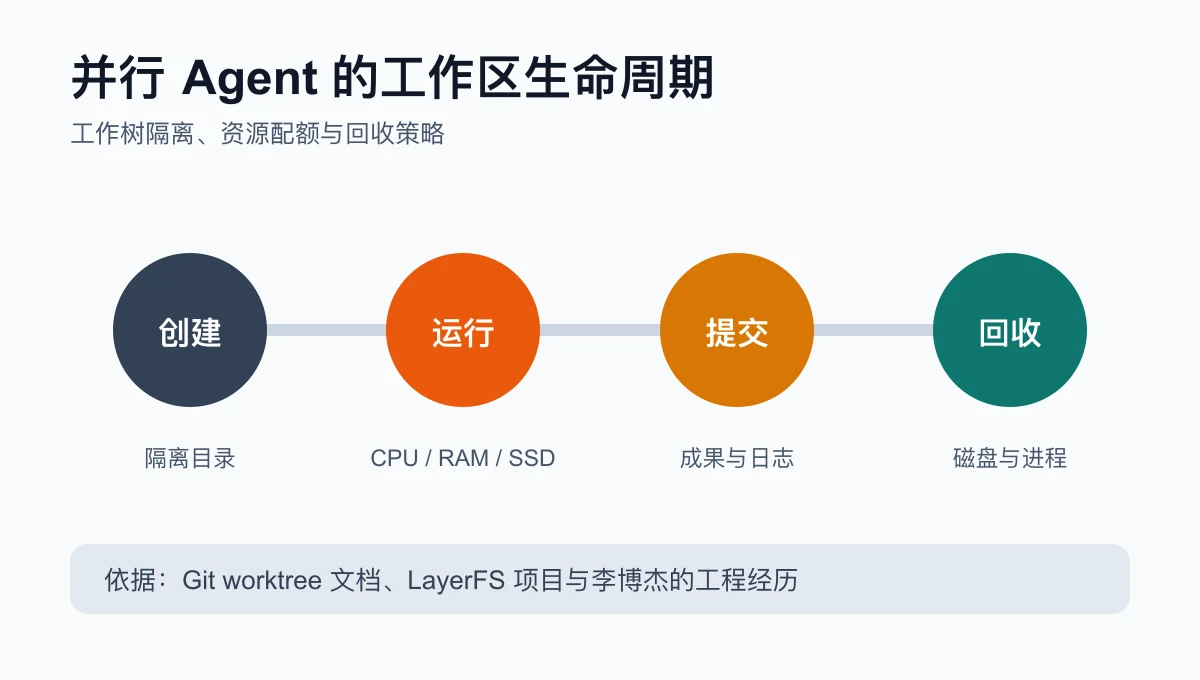
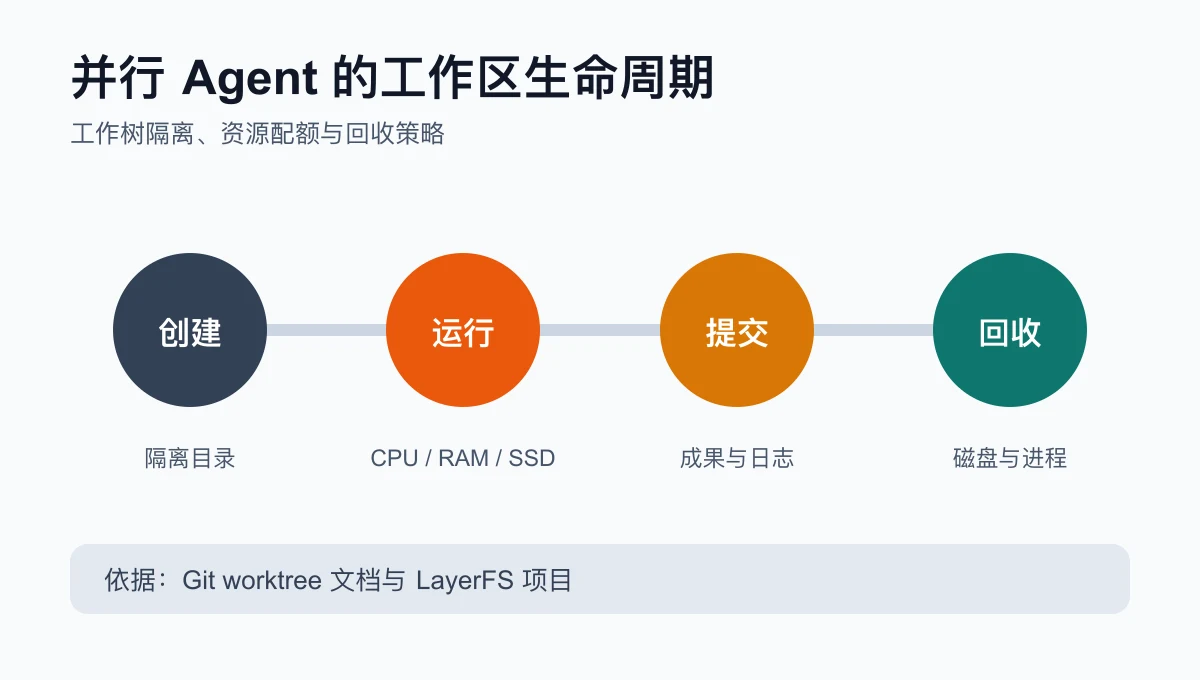
Revise agent infrastructure article without source author references

Changed region(s): [[0.3083, 0.8338, 0.6783, 0.8647]]

diff --git a/src/content/articles/agent-os-git-ssd-network-bottlenecks.md b/src/content/articles/agent-os-git-ssd-network-bottlenecks.md
@@ -1,61 +1,65 @@
 ---
 title: "Agent 的新瓶颈：Git、SSD、内存和网络"
-description: "两条讨论聚焦 Agent 基础设施。话题包括工具调用、工作区、内存与截图传输。本文核对 Git 文档、LayerFS 项目和 Sema 论文，区分工程经历与速度预测。"
+description: "Agent 任务包含模型推理、Git 操作、工作区创建、进程运行和网络传输。模型提速改变各环节的耗时比例；并发任务增加 SSD 与内存压力。本文拆解延迟账本、工作区成本、资源配额和截图上行瓶颈。"
 slug: "agent-os-git-ssd-network-bottlenecks"
-publishedAtCST: "2026-10-07T06:48:00+08:00"
+publishedAtCST: "2026-10-07T07:54:00+08:00"
 language: zh
 author: JimLiu
 categories: [devtools, research]
 cover: "/article-covers/agent-os-git-ssd-network-bottlenecks.webp"
-wechatMediaId: "qwac_8j4kaaga6WV5YUa-Z741ADdcbl_D3lQe5htEJcyiBLAUvdfpHc_fFLNynrJ"
+wechatMediaId: "qwac_8j4kaaga6WV5YUa-VVtY6rTQXl0zzrNRVdNrZxepUrnV9S96rlphyhSG0Rw"
 draft: false
 ---
 
-模型提速，Agent 提速吗？[徐一帆的一条讨论](https://x.com/yifanxu_ephai/status/2107104655490912678)把问题转向机器本身：CPU、内存、SSD、网络，以及一个不起眼的 `git add`。[李博杰的回复](https://x.com/bojie_li/status/2107469512476098813)补上生产环境的细节：工作区占满硬盘，并行任务压住内存，截图上传吃掉等待时间。
+模型吞吐量上升，Agent 任务耗时的结构发生变化。一次代码任务包含推理、工具调用、文件读写、测试和结果提交。一次 Computer Use 任务包含截图、上行传输、模型判断与动作执行。任务的完成时间属于整条执行链。
 
-这两条帖子提出一项工程问题：Agent 是一条执行链。模型、工具、文件系统和网络决定任务耗时。这组示例固定其他环节的耗时，推理时间缩短抬高了工具耗时占比。GPU 的资源需求属于另一项问题。
+工程预算需要两个账本：单任务的端到端延迟，以及并发任务的资源峰值。前者回答“用户等多久”，后者回答“机器能承载多少任务”。Git、SSD、内存和网络对应不同成本。
 
-## 一个 `git add`，暴露延迟账本
+## Git：模型提速改变延迟占比
 
-徐一帆给出一组例子：一次模型推理耗时 10 秒，`git add` 耗时 3 秒。单轮合计 13 秒，Git 操作占约 23%。他的设想把模型推理压到 0.5 秒，Git 操作保持 3 秒。单轮合计变成 3.5 秒，Git 操作占约 86%。
+单轮耗时的简化账本是：**推理时间 + 工具时间 + 环境等待时间**。工具时间包含 Git、测试、依赖安装等操作。模型速度属于其中一项变量。
 
-![模型推理速度假设与 Git 操作的单轮耗时占比；数字取自徐一帆的示例](/article-images/agent-os-git-ssd-network-bottlenecks/latency-budget.webp)
+一个算术示例：推理耗时 10 秒，`git add` 耗时 3 秒。两项合计 13 秒，Git 占 23%。另一组假设保留 3 秒 Git 耗时，推理耗时改为 0.5 秒。两项合计 3.5 秒，Git 占 86%。这组数字是比例演示。仓库、硬件和缓存条件缺席。基准测试结论缺少依据。
 
-这个计算属于示例。通用 benchmark 需要统一的仓库和硬件条件。0.5 秒推理属于速度假设；`git add` 的耗时取决于仓库规模、文件数量、磁盘状态和索引配置。**单轮耗时 = 推理时间 + 工具执行时间 + 环境等待时间。** 模型提速改变其中一项。
+![推理时间与 Git 时间的假设计算：10 秒加 3 秒；0.5 秒加 3 秒](/article-images/agent-os-git-ssd-network-bottlenecks/latency-budget.webp)
 
-李博杰提供另一组工程经历。他称团队的核心 Agent 系统采用 Go。团队的 Python 实时语音方案面临单核并发与实时性问题。该案例描述特定架构；其他 Python 语音系统的并发能力需要独立测试。他称多个子 Agent 的任务造成内存压力，服务器出现 SSH 连接失败。帖子给出工程经历；可复查的压测数据缺席。
+[`git add` 的官方文档](https://git-scm.com/docs/git-add)说明，该命令把指定文件的内容放入索引。文件规模、文件数、存储状态与索引配置影响一次调用的开销。性能分析需要拆出文件枚举、内容读取和索引写入等阶段；一次命令的总耗时提供整体结果，阶段归因需要额外测量。
 
-## Worktree 把“并行”变成硬盘问题
+Agent 的多轮任务放大这个问题。每轮动作产生工具调用与校验；任何一段等待进入总账。优化目标因任务而异：代码编辑关注仓库和测试，浏览器操作关注页面加载和截图，远程环境关注队列与容器启动。
 
-多 Agent 开发要求隔离工作区。[Git 官方文档](https://git-scm.com/docs/git-worktree)说明，linked worktree 允许同一仓库拥有多个工作树。它们共享仓库管理数据；每个工作树保留独立目录。项目源码、构建产物和依赖缓存产生磁盘成本。
+## SSD：隔离工作区有物理成本
 
-李博杰称，开发机的单个 worktree 占用数 GB，子 Agent 遗留的工作区填满 3 TB SSD。这组数字属于他的项目；Git worktree 的开销取决于工作目录内容。工作区生命周期带来一个问题：谁负责判断保留期限、清理对象和可恢复范围？
+并发代码任务需要隔离目录。[Git worktree 文档](https://git-scm.com/docs/git-worktree)说明，多个工作树共享仓库管理数据。每棵工作树拥有工作目录与独立索引。共享版本对象减轻仓库复制成本；工作文件、依赖目录、构建产物与日志构成磁盘占用。依赖与缓存的共享程度取决于项目配置。
 
-[LayerFS 项目](https://github.com/Ephemeral-AI-Lab/layerfs)提供一种实验方向：共享基础内容，使用内容寻址与写时复制记录增量，给每个 Agent 分配隔离工作区。项目仓库把 0.1.6 标为 Developer Preview。其存储缺少断电持久性保证，仓库要求重要数据保留独立副本。项目呈现一种解决思路；企业级落地需要更多验证。
+工作区的成本有三部分：基础文件、任务写入增量和遗留数据。任务结束后的目录、容器层、测试产物和日志形成长尾。创建速度、单任务磁盘增量、磁盘峰值、回收时间与失败回收率构成工作区指标。Git 的 `worktree prune` 处理失效管理信息；工作文件的删除与保留属于另一项操作，涉及未提交成果。
 
-![并行 Agent 的资源生命周期：创建、运行、提交、回收；工作区管理包含文件、进程与配额](/article-images/agent-os-git-ssd-network-bottlenecks/workspace-lifecycle.webp)
+[LayerFS 仓库](https://github.com/Ephemeral-AI-Lab/layerfs)展示一条研究路线：内容寻址、分块和写时复制复用基础内容，任务分支保留增量。项目的 0.1.6 版本属于 Developer Preview，仓库声明缺少断电持久性保证。它说明增量存储的设计方向，生产数据需要可靠副本。
 
-## 截图传输占据另一段等待时间
+![Agent 工作区的生命周期：创建、运行、提交和回收](/article-images/agent-os-git-ssd-network-bottlenecks/workspace-lifecycle.webp)
 
-Computer Use 的循环包含截图采集、上传、模型判断和动作执行。李博杰称，部分客户的截图上传耗时超过模型推理耗时。这项描述来自他的客户经历。[他参与的 Sema 论文](https://arxiv.org/abs/2604.20940)提供一组实验数据：受限上行链路的视觉流程，截图上传占端到端动作延迟的比例超过 60%。
+## 内存：并发数决定资源峰值
 
-Sema 的视觉表征包含可访问性树或 OCR 文本，以及压缩视觉 Token。论文的模拟 WAN 实验报告截图上行带宽缩减 130 至 210 倍，任务准确率与原始传输的差距小于等于 0.7 个百分点。这是作者实验条件下的结果；带宽压缩倍数与客户网络的延迟改善倍数属于不同指标。
+一个 Agent 任务占用模型客户端、工具进程、语言服务、测试进程和浏览器内存。任务副本数量增加，进程常驻内存与瞬时峰值叠加。八个任务、每个任务 1.5 GB 工作集，单项合计 12 GB；共享服务、文件缓存和峰值突发构成其他需求。这是容量计算示例，实际额度需要进程测量。
 
-![Computer Use 的执行链：截图、网络、模型、动作；网络成本与推理成本的占比比较](/article-images/agent-os-git-ssd-network-bottlenecks/computer-use-path.webp)
+内存不足带来换页、进程终止和任务重试。重试增加 CPU 与磁盘负荷。调度器需要任务并发上限、内存配额、超限处置、进程树回收和队列背压。平均内存掩盖高峰；任务峰值与机器峰值属于两张不同报表。
 
-## “Agent 操作系统”需要哪些能力
+## 网络：截图传输占据任务延迟
 
-李博杰提出三个方向：低延迟任务管理、Agent 与用户的 UI 隔离、软件自我修改。他的工程经历指向资源调度与工作区回收。Agent 运行平台需要任务队列、CPU 与内存配额、工作区生命周期、可取消的工具调用，以及人机并行操作的权限边界。这里的“操作系统”指一组运行时能力；替代 Windows 或 Linux 的新内核属于另一项命题。
+Computer Use 包含截图采集、上传、模型判断和动作执行。上行传输量与有效带宽决定纯上传时间。一个示意计算：截图 8 MB，有效上行 8 Mbps，纯上传时间为 8 秒。压缩、排队和网络往返形成额外开销。
 
-原帖提到 OpenAI 对 Omarchy 的支持。[Omarchy 基金会公告](https://omarchy.org/news/2026/09/omacom-foundation-secures-tokens-from-leading-labs/)列出的事实是 OpenAI 提供 **15 万美元的 Token 赞助**。赞助确认合作关系；Agent 操作系统研发计划缺少对应公告。
+[Sema 论文](https://arxiv.org/abs/2604.20940)报告一组受限上行链路实验：截图上传占动作端到端延迟的比例超过 60%。论文提出可访问性树或 OCR 文本与压缩视觉 Token 的组合。模拟 WAN 实验中的截图上行带宽缩减 130 至 210 倍，任务准确率与原始传输的差距小于等于 0.7 个百分点。**带宽缩减倍数与延迟改善倍数属于不同指标。**这些数据对应论文实验条件。
 
-模型速度的增长改变系统各段的相对成本。Agent 数量增加放大资源争用。Agent 工程的计分板需要四项指标：模型能力、单轮端到端延迟、每任务存储增量、失败任务的资源回收时间。
+![Computer Use 的截图、上行网络、模型和动作执行链](/article-images/agent-os-git-ssd-network-bottlenecks/computer-use-path.webp)
+
+## Agent 平台需要任务级计分板
+
+模型调用耗时是一项指标。任务平台需要端到端延迟的中位数与尾部值、各工具阶段耗时、单任务磁盘增量、进程内存峰值、上行字节数和失败任务回收时间。指标对应不同优化对象。
+
+任务队列决定并发；资源配额约束 CPU、内存和 SSD；工作区生命周期管理成果与临时数据；网络表征决定截图与语义信息的传输量。Agent 系统的性能目标是任务完成成本与可靠性，模型速度占据这张账本的一列。
 
 ## 参考资料
 
-- [徐一帆：CPU、RAM、SSD 与网络的瓶颈讨论](https://x.com/yifanxu_ephai/status/2107104655490912678)
-- [李博杰：Agent 系统与生产环境经历](https://x.com/bojie_li/status/2107469512476098813)
+- [Git 官方文档：git-add](https://git-scm.com/docs/git-add)
 - [Git 官方文档：git-worktree](https://git-scm.com/docs/git-worktree)
-- [LayerFS 官方仓库](https://github.com/Ephemeral-AI-Lab/layerfs)
+- [LayerFS 项目仓库与版本限制](https://github.com/Ephemeral-AI-Lab/layerfs)
 - [Sema 论文：Semantic Transport for Real-Time Multimodal Agents](https://arxiv.org/abs/2604.20940)
-- [Omarchy 基金会：OpenAI Token 赞助](https://omarchy.org/news/2026/09/omacom-foundation-secures-tokens-from-leading-labs/)
